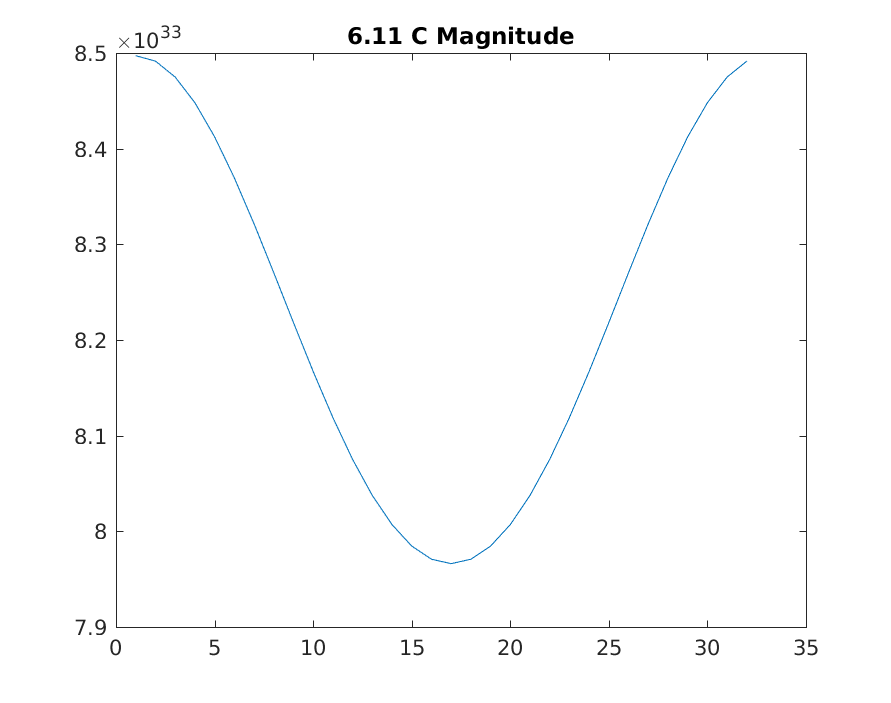
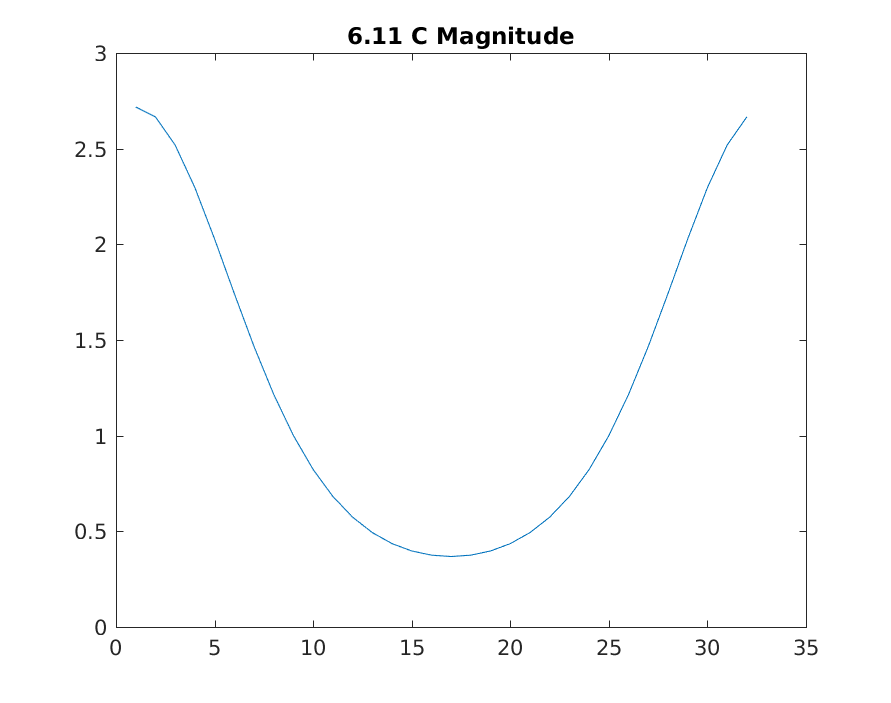
Work on hw5

diff --git a/homework/hw05a.m b/homework/hw05a.m
@@ -5,83 +5,36 @@ close all;
 
 % -------------------------------------------------------------------------
 
-N = 4;
-n = 2:N;
-k = 1:N;
-
-varnames = ["k" "q" "ra" "ia" "reala" "imaga"];
 results = [];
 
 % 6.9A
 x = [1 0 1 0];
-for i=k
-    ra(i) = x(1) + sum(x(n).*cos(2.*pi.*i.*n./N));
-    ia(i) = sum(x(n).*sin(2.*pi.*i.*n./N));
-end
-ta = dft(x);
-q = "a";
-out = [k; [q q q q]; ra; ia; real(ta'); imag(ta')];
-out = array2table(out', 'VariableNames', cellstr(varnames));
+out = compare_dft(x, "A");
 results = [results; out];
 
 % 6.9B
 x = [1 0 -1 0];
-for i=k
-    rb(i) = x(1) + sum(x(n).*cos(2.*pi.*i.*n./N));
-    ib(i) = sum(x(n).*sin(2.*pi.*i.*n./N));
-end
-tb = dft(x);
-q = "b";
-out = [k; [q q q q]; rb; ib; real(tb'); imag(tb')];
-out = array2table(out', 'VariableNames', cellstr(varnames));
+out = compare_dft(x, "B");
 results = [results; out];
 
 % 6.9C
 x = [1 1 -1 -1];
-for i=k
-    rc(i) = x(1) + sum(x(n).*cos(2.*pi.*i.*n./N));
-    ic(i) = sum(x(n).*sin(2.*pi.*i.*n./N));
-end
-tc = dft(x);
-q = "c";
-out = [k; [q q q q]; rc; ic; real(tc'); imag(tc')];
-out = array2table(out', 'VariableNames', cellstr(varnames));
+out = compare_dft(x, "C");
 results = [results; out];
 
 % 6.9D
 x = [-1 1 1 1];
-for i=k
-    rd(i) = x(1) + sum(x(n).*cos(2.*pi.*i.*n./N));
-    id(i) = sum(x(n).*sin(2.*pi.*i.*n./N));
-end
-td = dft(x);
-q = "d";
-out = [k; [q q q q]; rd; id; real(td'); imag(td')];
-out = array2table(out', 'VariableNames', cellstr(varnames));
+out = compare_dft(x, "D");
 results = [results; out];
 
 % 6.9E
 x = [-1 0 1 2];
-for i=k
-    re(i) = x(1) + sum(x(n).*cos(2.*pi.*i.*n./N));
-    ie(i) = sum(x(n).*sin(2.*pi.*i.*n./N));
-end
-te = dft(x);
-q = "e";
-out = [k; [q q q q]; re; ie; real(te'); imag(te')];
-out = array2table(out', 'VariableNames', cellstr(varnames));
+out = compare_dft(x, "E");
 results = [results; out];
 
 % 6.9F
 x = [1 -1 1 -1];
-for i=k
-    rrf(i) = x(1) + sum(x(n).*cos(2.*pi.*i.*n./N));
-    iif(i) = sum(x(n).*sin(2.*pi.*i.*n./N));
-end
-tf = dft(x);
-q = "f";
-out = [k; [q q q q]; rrf; iif; real(tf'); imag(tf')];
-out = array2table(out', 'VariableNames', cellstr(varnames));
+out = compare_dft(x, "F");
 results = [results; out];
 
 
@@ -195,7 +148,7 @@ xval = 1:32;
 
 % 6.11A
 n = 1:31;
-x = [1 n];
+x = 1 ./ [1 n];
 d = dft(x);
 m = abs(d);
 figure();
@@ -205,7 +158,7 @@ saveas(gcf, [pwd, '/hw05out/6_11_a.png'], 'png');
 
 % 6.11B
 n = 1:31;
-x = [1 n.^2];
+x = 1 ./ [1 n.^2];
 d = dft(x);
 m = abs(d);
 figure();
@@ -215,7 +168,7 @@ saveas(gcf, [pwd, '/hw05out/6_11_b.png'], 'png');
 
 % 6.11C
 n = 1:31;
-x = [1 factorial(n)];
+x = 1 ./ [1 factorial(n)];
 d = dft(x);
 m = abs(d);
 figure();

diff --git a/homework/compare_dft.m b/homework/compare_dft.m
@@ -1,0 +1,21 @@
+% compare dft
+
+function out = compare_dft(x, q)
+
+varnames = ["k" "q" "real_analytical" "imag_analytical" "real_dft" "imag_dft"];
+
+N = length(x);
+kvals = 1:N;
+
+for i=kvals
+    k = i - 1;
+    re(i) = x(1) + x(2)*cos(pi*k/2) + x(3)*cos(pi*k) + x(4)*cos(pi*k*3/2);
+    im(i) = x(2)*sin(pi*k/2) + x(3)*sin(pi*k) + x(4)*sin(pi*k*3/2);
+end
+re = round(re, 12);
+im = round(im, 12);
+
+d = dft(x);
+
+out = [kvals; [q q q q]; re; im; round(real(d'), 12); round(imag(d'), 12)];
+out = array2table(out', 'VariableNames', cellstr(varnames));
